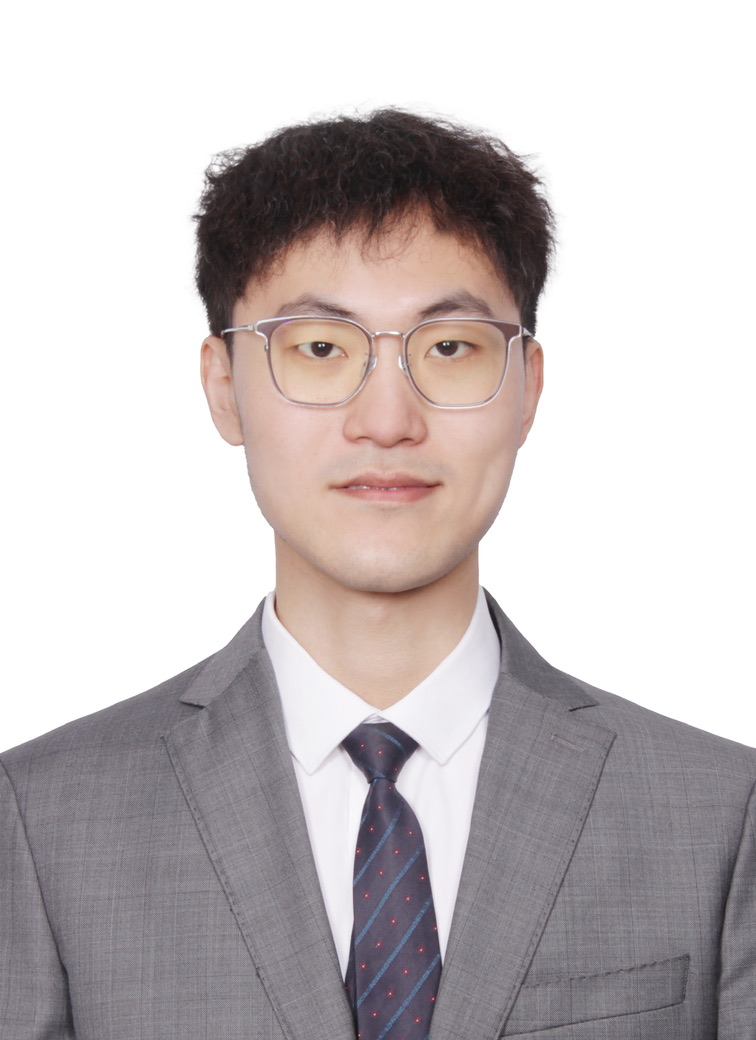
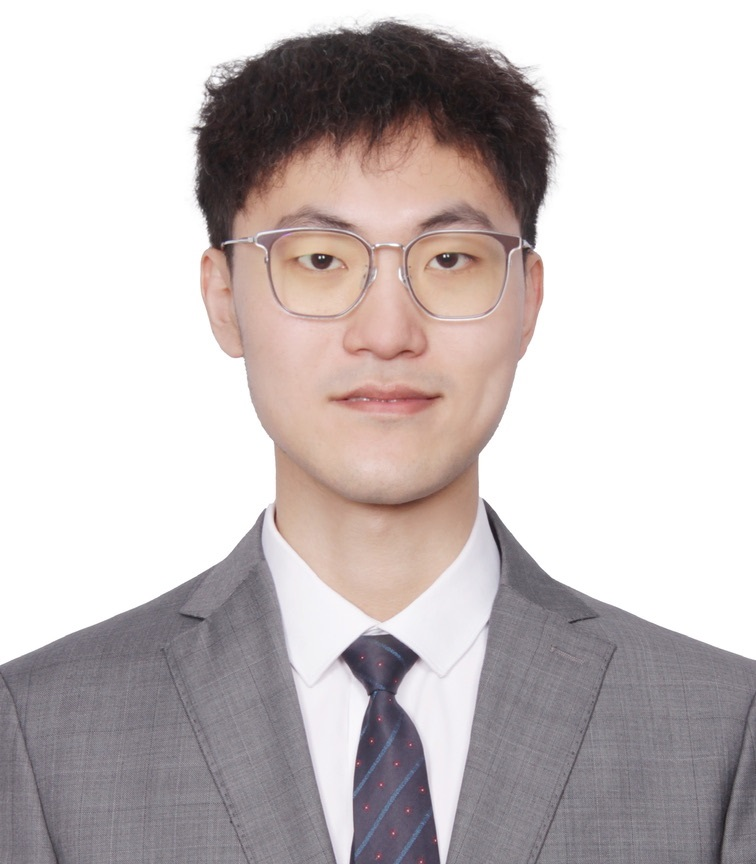
Update

diff --git a/people/index.html b/people/index.html
@@ -204,7 +204,7 @@
           <figure class="image">
             <a href="https://haochun.wang">
 
-              <img width="300" src="../images/photo/hcwang.jpg" alt="Placeholder image">
+              <img width="300" height="300" src="../images/photo/hcwang.jpg" alt="Placeholder image">
             </a>
           </figure>
         </div>
@@ -225,7 +225,7 @@
       <div class="card">
         <div>
           <figure class="image">
-              <img width="300" src="../images/photo/yrdu.jpg" alt="Placeholder image">
+              <img width="300" height="300" src="../images/photo/yrdu.jpg" alt="Placeholder image">
           </figure>
         </div>
         <div class="card-content">
@@ -253,7 +253,7 @@
       <div class="card">
         <div>
           <figure class="image">
-            <img width="300" src="../images/photo/mzsun.jpg" alt="Placeholder image">
+            <img width="300" height="300" src="../images/photo/mzsun.jpg" alt="Placeholder image">
           </figure>
         </div>
         <div class="card-content">
@@ -274,7 +274,7 @@
           <figure class="image">
             <a href="../../~yxliu">
               
-              <img width="300" src="../images/photo/jbwang.jpg" alt="Placeholder image">
+              <img width="300" height="300" src="../images/photo/jbwang.jpg" alt="Placeholder image">
             </a>
           </figure>
         </div>
@@ -295,7 +295,7 @@
       <div class="card">
         <div>
           <figure class="image">
-            <img width="300" src="../images/photo/jwcao.jpg" alt="Placeholder image">
+            <img width="300" height="300" src="../images/photo/jwcao.jpg" alt="Placeholder image">
           </figure>
         </div>
         <div class="card-content">
@@ -318,7 +318,7 @@
       <div class="card">
         <div>
           <figure class="image">
-            <img width="300" src="../images/photo/brhu.jpg" alt="Placeholder image">
+            <img width="300" height="300" src="../images/photo/brhu.jpg" alt="Placeholder image">
           </figure>
         </div>
         <div class="card-content">
